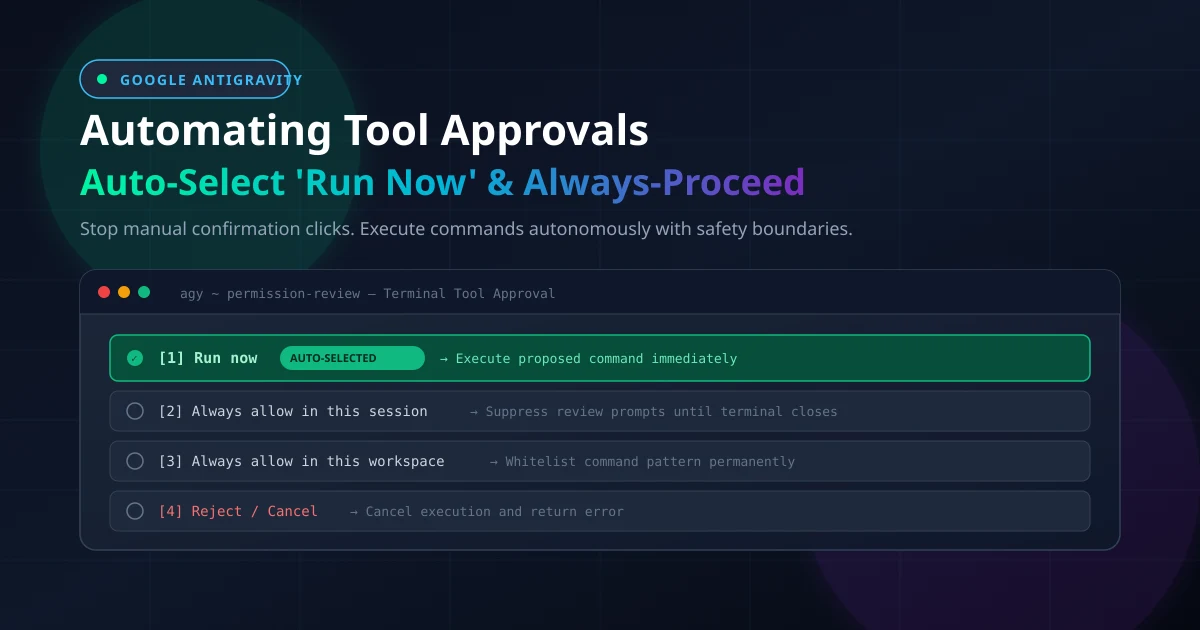
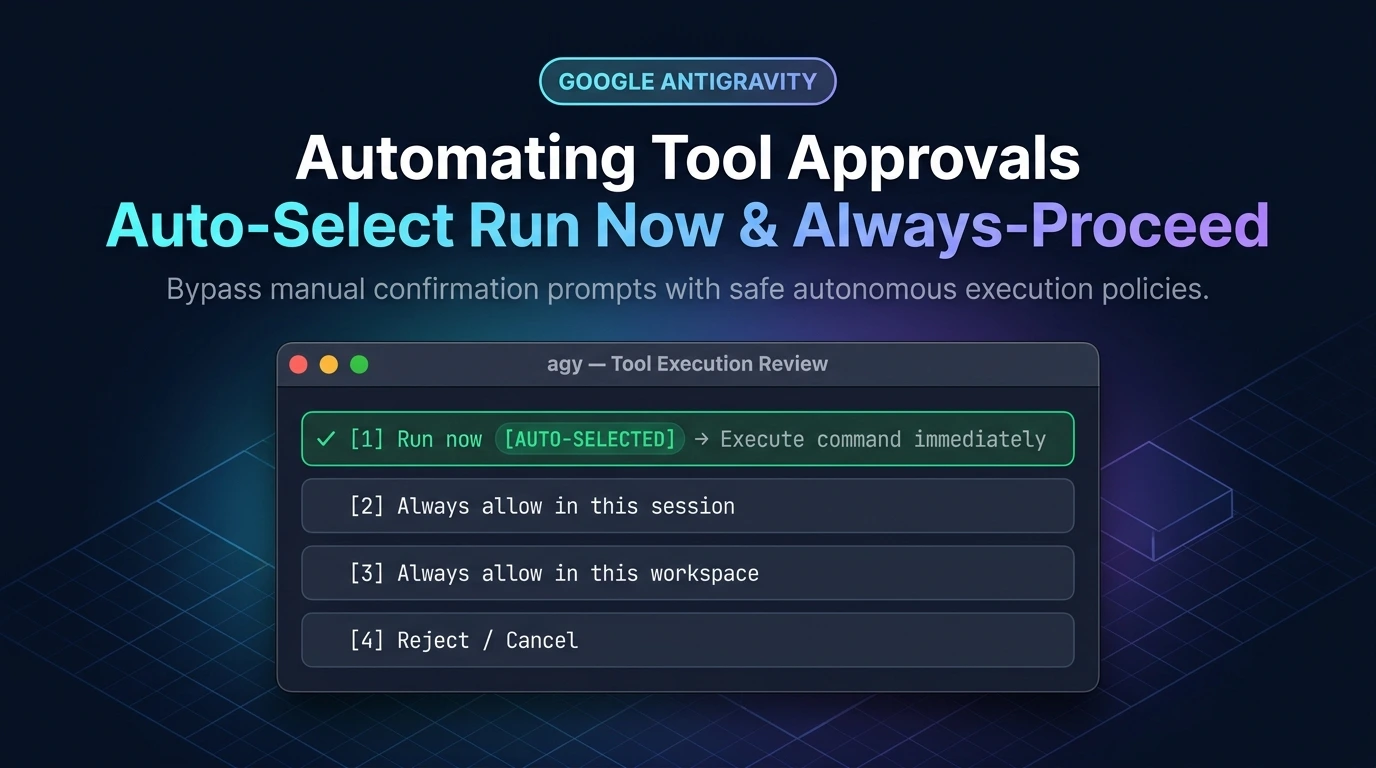
docs(content): add antigravity arrow guide and verify auto-approval flags
- Add tutorial on Antigravity IDE Unicode arrow configuration and Markdown preview
- Correct hallucinated agy CLI flags to verified --dangerously-skip-permissions and --sandbox
- Generate fresh uncropped cover image with generous margins and floating terminal modal
- Build and index verified with 0 errors and 0 warnings

diff --git a/content/articles/antigravity-ide-arrow-mermaid-fix-guide/index.md b/content/articles/antigravity-ide-arrow-mermaid-fix-guide/index.md
@@ -1,0 +1,129 @@
+---
+title: "Antigravity IDE မှာ Arrow နဲ့ Mermaid ပြင်နည်း"
+date: 2026-09-14T08:55:00+06:30
+image: antigravity-arrow-mermaid.webp
+thumbnail_image: antigravity-arrow-mermaid.webp
+description: "Antigravity IDE Chat ထဲမှာ $\\to$ စာသားအကြမ်းကြီး ပေါ်နေတာကို Unicode Arrow ပြောင်းလဲနည်းနဲ့ Mermaid Code တွေ ရှင်းလင်းအောင် AGENTS.md သတ်မှတ်နည်း အဆင့်ဆင့် လမ်းညွှန်။"
+summary: "Antigravity IDE မှာ Arrow ($\to$) Plain Text ဖြစ်နေတဲ့ အကြောင်းရင်း၊ Chat ထဲမှာ Mermaid Code အကြမ်းကြီးတွေ မရှုပ်အောင် AGENTS.md စည်းမျဉ်း သတ်မှတ်ပြီး Markdown Preview နဲ့ စနစ်တကျ သုံးစွဲနည်း အပြည့်အစုံ။"
+categories: ["AI", "Development", "Productivity"]
+tags: ["Google Antigravity", "Antigravity IDE", "Mermaid", "Markdown", "Developer Tools", "AI Pair Programming"]
+series: ["Antigravity Workflows"]
+keywords: ["Antigravity IDE arrow fix", "Antigravity mermaid diagram", "vscode markdown mermaid", "LaTeX to unicode arrow", "AGENTS.md rules"]
+slug: "antigravity-ide-arrow-mermaid-fix-guide"
+---
+
+Google Antigravity IDE နဲ့ AI Pair Programming လုပ်ရင်း Chat ထဲမှာဖြစ်စေ၊ Markdown Note တွေ ဖတ်ရင်းနဲ့ဖြစ်စေ မျှားပုံစံ မထွက်ဘဲ `$\to$` သို့မဟုတ် `$\longrightarrow$` ဆိုပြီး စာသားအကြမ်းကြီး ပေါ်နေတာကို ကြုံဖူးကြမှာပါ။
+
+အဲဒီအပြင် AI Agent ကို Architecture သို့မဟုတ် Workflow တွေ ရှင်းပြခိုင်းတဲ့အခါ Chat ထဲမှာ မျက်စိနဲ့ ချက်ချင်း မြင်သာတဲ့ Diagram အဖြစ် မထွက်ဘဲ Mermaid Code Block အကြမ်းကြီးအတိုင်း ပေါ်လာတာမျိုးလည်း ရှိပါတယ်။
+
+ဒီဆောင်းပါးမှာတော့ ဒီပြဿနာတွေ ဘာကြောင့် ဖြစ်ရတာလဲဆိုတဲ့ အကြောင်းရင်းအမှန်နဲ့ မျက်စိအေးအေးနဲ့ အဆင်ပြေပြေ အလုပ်လုပ်နိုင်အောင် ဘယ်လို စနစ်တကျ ပြင်ဆင်ရမလဲဆိုတာကို အသေးစိတ် ရှင်းပြပေးသွားပါမယ်။
+
+![Google Antigravity IDE Arrow and Mermaid Fix Guide](antigravity-arrow-mermaid.webp)
+
+---
+
+## ၁။ Arrow (`$\to$`) က ဘာကြောင့် Plain Text အဖြစ် ပေါ်နေတာလဲ
+
+အဓိက အကြောင်းရင်းကတော့ Markdown Parser တွေရဲ့ သဘောသဘာဝကြောင့် ဖြစ်ပါတယ်။
+
+1. **LaTeX Math vs Standard Markdown:** သင်္ချာဖော်မြူလာတွေ ရေးတဲ့ LaTeX မှာ မျှားပြဖို့ `\to` ဒါမှမဟုတ် `\longrightarrow` ကို ဒေါ်လာသင်္ကေတ `$...$` ကြားထဲ ထည့်ရေးကြပါတယ်။
+2. **Chat Window ထဲမှာ Math Parser မပါဝင်ခြင်း:** Antigravity IDE (နဲ့ VS Code) ရဲ့ Chat Panel ဟာ သာမန် Markdown ကိုပဲ Render လုပ်ပေးတာ ဖြစ်ပြီး Chat စာသားတွေအပေါ်မှာ KaTeX/LaTeX Math Engine ကို မောင်းနှင်မပေးပါဘူး။
+3. **AI က LaTeX အကျင့်ပါနေခြင်း:** AI Agent တွေဟာ သင်္ချာနဲ့ သိပ္ပံစာတမ်းတွေကို လေ့လာထားတာများတဲ့အတွက် အဆင့်တွေကို ရှင်းပြတဲ့အခါ `Step 1 $\to$ Step 2` ဆိုပြီး အလိုလို ရေးချမိတတ်ပါတယ်။
+
+### အကောင်းဆုံး ဖြေရှင်းနည်း
+
+ဒေါ်လာသင်္ကေတနဲ့ LaTeX ပုံစံ ရေးမယ့်အစား လူသုံးများပြီး နေရာတိုင်းမှာ အမှန်တကယ် ပေါ်တဲ့ **Standard Unicode Arrow (`→`, `←`, `↔`, `⇒`)** တွေကို တိုက်ရိုက် သုံးခိုင်းတာ အကောင်းဆုံး ဖြစ်ပါတယ်။
+
+---
+
+## ၂။ Mermaid Diagram နဲ့ Antigravity Chat ရဲ့ လက်တွေ့ အခြေအနေ
+
+လူတော်တော်များများ ထင်ထားသလို Antigravity Chat Panel ဟာ Chat Bubble ထဲမှာ Mermaid Code တွေကို Diagram အဖြစ် တိုက်ရိုက် Render မလုပ်ပေးနိုင်ပါဘူး (Security နဲ့ Performance ကြောင့် VS Code Chat တွေမှာ Code Block အဖြစ်ပဲ ပြပေးတာ ဖြစ်ပါတယ်)။
+
+အင်တာနက်ပေါ်မှာ တွေ့ရတတ်တဲ့ `"mermaid-chat.enabled": true` ဆိုတာမျိုးဟာ တကယ်မရှိတဲ့ Setting အတု (Hallucination) သာ ဖြစ်ပါတယ်။
+
+Mermaid Diagram ကို အမှန်တကယ် ပုံစံကျကျ ကြည့်ရှုနိုင်တဲ့ နေရာတွေကတော့-
+
+| နေရာ | အလုပ်လုပ်ပုံ | အသုံးပြုနည်း |
+| :--- | :--- | :--- |
+| **Markdown Preview** (`Ctrl+Shift+V`) | `.md` ဖိုင်တွေထဲက Mermaid Code တွေကို Graphic Diagram အဖြစ် လှလှပပ Render လုပ်ပေးတယ်။ | VS Code Built-in သို့မဟုတ် `bierner.markdown-mermaid` Extension |
+| **Agent Artifacts Tab** | Agent က ထုတ်ပေးတဲ့ `.md` Artifact ဖိုင်တွေကို Preview Tab အနေနဲ့ ဖွင့်ပြတဲ့အခါ Diagram အဖြစ် မြင်တွေ့နိုင်တယ်။ | Antigravity ရဲ့ Built-in Preview စနစ် |
+| **Chat Panel** | Chat ထဲမှာတော့ Mermaid Code တွေကို Raw Text အဖြစ်ပဲ ပြပေးနိုင်တယ်။ | Chat ထဲမှာ Diagram အစား Unicode Arrow နဲ့ List တွေ သုံးခိုင်းတာ အသင့်တော်ဆုံး |
+
+ဒါကြောင့် Chat ထဲမှာ မလိုအပ်ဘဲ ရှည်လျားတဲ့ Mermaid Code အကြမ်းကြီးတွေ မပေါ်လာစေဖို့နဲ့ Markdown File တွေထဲမှာပဲ သပ်သပ်ရပ်ရပ် သုံးဖို့ AI ကို လမ်းညွှန်ပေးရပါမယ်။
+
+---
+
+## ၃။ အဆင့်ဆင့် လက်တွေ့ ပြင်ဆင်နည်း
+
+ဒီအဆင့်တွေကို သတ်မှတ်ပေးလိုက်တာနဲ့ Chat ထဲမှာ `$\to$` ပျောက်သွားပြီး အမြင်ရှင်းတဲ့ Workflow တွေကို ချက်ချင်း ရရှိမှာပါ-
+
+### အဆင့် (၁) - Workspace Rule (`AGENTS.md`) သတ်မှတ်ပါ
+
+AI Agent ကို Chat ထဲ စကားပြောတိုင်း `$\to$` မသုံးဘဲ သန့်ရှင်းတဲ့ Unicode `→` ပဲ သုံးဖို့နဲ့ Chat ထဲမှာ မလိုအပ်တဲ့ Mermaid Code အကြမ်းကြီးတွေ မထုတ်ဖို့အတွက် Project ရဲ့ Root မှာ `AGENTS.md` ဖိုင်တစ်ခု ဆောက်ပေးရပါမယ်။
+
+သင့် Workspace Folder ရဲ့ ထိပ်ဆုံးမှာ `AGENTS.md` ဖိုင်ဆောက်ပြီး အောက်ပါ Rule တွေကို ထည့်သွင်းပေးပါ-
+
+```markdown
+# Repository Guidance
+
+## Symbols & Arrow Guidelines
+
+- **Unicode Over LaTeX for Arrows & Symbols:** Always use standard Unicode arrows (`→`, `←`, `↔`, `⇒`) instead of LaTeX math syntax (`$\to$`, `$\longrightarrow$`, `\implies`, `$$\text{...}$$`). Antigravity chat and markdown previews do not run KaTeX/LaTeX parsers on regular text, causing raw LaTeX commands to render as unsightly plain text.
+- **Math & Dimensions:** Use Unicode symbols for dimensions and math operators (e.g. `512 × 512 px` instead of `$512 \times 512$`).
+- **No Raw Mermaid in Chat:** Do not output raw Mermaid code blocks in chat conversations since the chat interface does not render them visually. Use clean Unicode arrows, lists, or structured text instead.
+```
+
+> [!TIP]
+> Antigravity ဟာ စည်းမျဉ်း (Rules) တွေကို Project Root က `AGENTS.md` (သို့မဟုတ် `.agents/`) နဲ့ Global အနေနဲ့ `~/.gemini/config/rules/` တွေကနေ အလိုအလျောက် ဖတ်ရှုပါတယ်။ ဒါကြောင့် ဖိုင်လမ်းကြောင်း မှန်ကန်အောင် ထားပေးဖို့ အရေးကြီးပါတယ်။
+
+---
+
+### အဆင့် (၂) - Markdown ဖိုင်တွေအတွက် Mermaid Preview စစ်ဆေးပါ
+
+Markdown ဖိုင်တွေထဲမှာ ရေးထားတဲ့ Mermaid Diagram တွေကို ပုံစံတကျ ကြည့်ရှုနိုင်ဖို့ Antigravity IDE ရဲ့ Extensions ထဲမှာ `bierner.markdown-mermaid` Extension ရှိမရှိ စစ်ဆေးပြီး လိုအပ်ရင် Install လုပ်ထားပေးနိုင်ပါတယ်။
+
+`settings.json` ထဲမှာ Dark Mode အရောင်အသွေး သတ်မှတ်ချင်ရင်တော့ အောက်ပါအတိုင်း ထည့်ပေးနိုင်ပါတယ်-
+
+```json
+{
+  "markdown-mermaid.darkModeTheme": "dark",
+  "markdown-mermaid.lightModeTheme": "default"
+}
+```
+
+---
+
+## ၄။ အမှန်တကယ် အလုပ်လုပ်မလုပ် စမ်းသပ်ကြည့်နည်း
+
+ပြင်ဆင်ပြီးသွားရင် အောက်ပါအတိုင်း စမ်းသပ်ကြည့်နိုင်ပါတယ်-
+
+### က။ Arrow စမ်းသပ်ခြင်း
+
+AI Chat ထဲမှာ `Show me a 3-step workflow` လို့ ရေးမေးကြည့်ပါ။ အရင်လို `$\to$` မထွက်တော့သလို Mermaid Code အကြမ်းကြီးတွေလည်း မရှုပ်တော့ဘဲ အောက်ပါအတိုင်း သန့်သန့်ရှင်းရှင်း ပေါ်လာပါမယ်-
+
+> Planning → Implementation → Verification
+
+### ခ။ Mermaid Markdown Preview စမ်းသပ်ခြင်း
+
+Markdown ဖိုင်တစ်ခုထဲမှာ အောက်ပါ Code Block ကို ထည့်ပြီး `Ctrl+Shift+V` နှိပ်ကာ Preview ဖွင့်ကြည့်ပါ-
+
+```mermaid
+flowchart LR
+    A["အကြံဉာဏ်"] --> B["Antigravity IDE"]
+    B --> C["Unicode Arrow: →"]
+    B --> D["Markdown Preview"]
+```
+
+Markdown Preview ထဲမှာ သပ်ရပ်လှပတဲ့ Interactive Flowchart အဖြစ် ချက်ချင်း ပြသပေးတာကို တွေ့ရပါလိမ့်မယ်။
+
+---
+
+## အနှစ်ချုပ်
+
+Antigravity IDE မှာ Arrow တွေ `$\to$` ပေါ်နေတာနဲ့ Mermaid Code တွေ မထွက်တာဟာ Chat UI ရဲ့ သဘာဝကြောင့် ဖြစ်ပါတယ်။
+
+1. **Arrow အတွက်:** LaTeX `$\to$` အစား Unicode `→` သုံးဖို့ `AGENTS.md` ထဲမှာ သတ်မှတ်ပေးပါ။
+2. **Mermaid အတွက်:** Chat ထဲမှာ Code အကြမ်းတွေ မထုတ်ခိုင်းဘဲ Markdown Preview (`Ctrl+Shift+V`) နဲ့ Artifacts တွေမှာပဲ အသုံးပြုပါ။
+
+ဒီနည်းလမ်းအတိုင်း ပြင်ဆင်ထားရင် Coding လုပ်တဲ့အခါ မျက်စိအေးပြီး ပိုမို ရှင်းလင်းတဲ့ AI Pair Programming အတွေ့အကြုံကို ရရှိမှာ သေချာပါတယ်။
